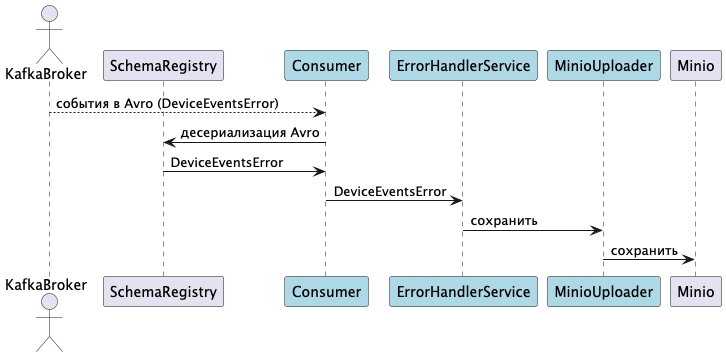
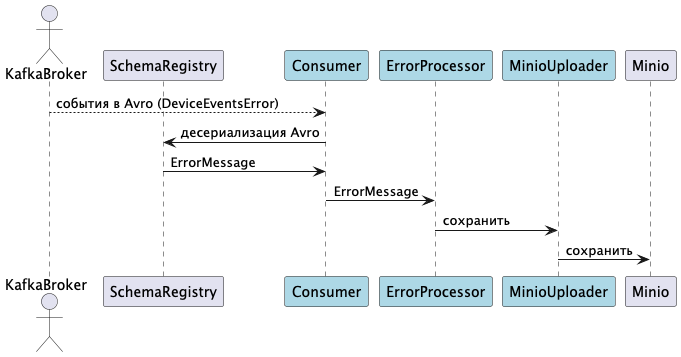
refactoring

diff --git a/failed-events-processor/src/main/java/ts/andrey/failedeventsprocessor/service/impl/EventsErrorProcessor.java b/failed-events-processor/src/main/java/ts/andrey/failedeventsprocessor/service/impl/EventsErrorProcessor.java
@@ -1,6 +1,5 @@
-package ts.andrey.failedeventsprocessor.service;
+package ts.andrey.failedeventsprocessor.service.impl;
 
-import com.nashkod.avro.DeviceError;
 import com.nashkod.avro.DeviceEventError;
 import lombok.RequiredArgsConstructor;
 import lombok.extern.slf4j.Slf4j;
@@ -8,13 +7,15 @@ import org.springframework.beans.factory.annotation.Value;
 import org.springframework.stereotype.Service;
 import ts.andrey.failedeventsprocessor.metrics.ErrorType;
 import ts.andrey.failedeventsprocessor.metrics.GlobalMetrics;
+import ts.andrey.failedeventsprocessor.service.ErrorProcessor;
+import ts.andrey.failedeventsprocessor.service.MinioUploader;
 import ts.andrey.failedeventsprocessor.utils.JsonAvroConverter;
 import ts.andrey.failedeventsprocessor.utils.MinioNameGenerator;
 
 @Slf4j
 @Service
 @RequiredArgsConstructor
-public class ErrorHandlerService {
+public class EventsErrorProcessor implements ErrorProcessor<DeviceEventError> {
 
     private final MinioUploader minioUploader;
 
@@ -22,15 +23,6 @@ public class ErrorHandlerService {
 
     @Value("${minio.bucket-name}")
     private String bucketName;
-
-    public void start(DeviceError deviceError) {
-        log.debug("Starting error handler service for {}", deviceError);
-        final var name = MinioNameGenerator.generateName(deviceError.getReceivedAt(),
-                deviceError.getErrorMeta().getErrorSource().name());
-        final var bytes = JsonAvroConverter.toJsonAvro(deviceError);
-        minioUploader.uploadToMinio(name, bytes, bucketName);
-        metrics.recordProcessed(ErrorType.DEVICE_ERROR);
-    }
 
     public void start(DeviceEventError deviceEventError) {
         log.debug("Starting error handler service for {}", deviceEventError);

diff --git a/failed-events-processor/src/main/java/ts/andrey/failedeventsprocessor/service/impl/DeviceErrorProcessor.java b/failed-events-processor/src/main/java/ts/andrey/failedeventsprocessor/service/impl/DeviceErrorProcessor.java
@@ -1,0 +1,36 @@
+package ts.andrey.failedeventsprocessor.service.impl;
+
+import com.nashkod.avro.DeviceError;
+import lombok.RequiredArgsConstructor;
+import lombok.extern.slf4j.Slf4j;
+import org.springframework.beans.factory.annotation.Value;
+import org.springframework.stereotype.Service;
+import ts.andrey.failedeventsprocessor.metrics.ErrorType;
+import ts.andrey.failedeventsprocessor.metrics.GlobalMetrics;
+import ts.andrey.failedeventsprocessor.service.ErrorProcessor;
+import ts.andrey.failedeventsprocessor.service.MinioUploader;
+import ts.andrey.failedeventsprocessor.utils.JsonAvroConverter;
+import ts.andrey.failedeventsprocessor.utils.MinioNameGenerator;
+
+@Slf4j
+@Service
+@RequiredArgsConstructor
+public class DeviceErrorProcessor implements ErrorProcessor<DeviceError> {
+
+    private final MinioUploader minioUploader;
+
+    private final GlobalMetrics metrics;
+
+    @Value("${minio.bucket-name}")
+    private String bucketName;
+
+    public void start(DeviceError deviceError) {
+        log.debug("Starting error handler service for {}", deviceError);
+        final var name = MinioNameGenerator.generateName(deviceError.getReceivedAt(),
+                deviceError.getErrorMeta().getErrorSource().name());
+        final var bytes = JsonAvroConverter.toJsonAvro(deviceError);
+        minioUploader.uploadToMinio(name, bytes, bucketName);
+        metrics.recordProcessed(ErrorType.DEVICE_ERROR);
+    }
+
+}

diff --git a/failed-events-processor/src/main/java/ts/andrey/failedeventsprocessor/service/kafka/EventsErrorConsumer.java b/failed-events-processor/src/main/java/ts/andrey/failedeventsprocessor/service/kafka/EventsErrorConsumer.java
@@ -1,4 +1,4 @@
-package ts.andrey.failedeventsprocessor.service;
+package ts.andrey.failedeventsprocessor.service.kafka;
 
 import com.nashkod.avro.DeviceEventError;
 import lombok.RequiredArgsConstructor;
@@ -6,15 +6,16 @@ import lombok.extern.slf4j.Slf4j;
 import org.apache.kafka.clients.consumer.ConsumerRecords;
 import org.springframework.kafka.annotation.KafkaListener;
 import org.springframework.stereotype.Component;
+import ts.andrey.failedeventsprocessor.service.ErrorProcessor;
 
 import java.util.ArrayList;
 
 @Slf4j
 @Component
 @RequiredArgsConstructor
-public class KafkaDeviceEventsErrorConsumer {
+public class EventsErrorConsumer {
 
-    private final ErrorHandlerService errorHandlerService;
+    private final ErrorProcessor<DeviceEventError> errorProcessor;
 
     @KafkaListener(
             topics = "${spring.kafka.template.dlt-events-topic}",
@@ -26,7 +27,7 @@ public class KafkaDeviceEventsErrorConsumer {
         records.forEach(message -> eventsErrors.add(message.value()));
         log.info("Получена пачка из [{}] ошибок по Events", eventsErrors.size());
         log.debug("Получены ошибки по Events: [{}]", eventsErrors);
-        eventsErrors.forEach(errorHandlerService::start);
+        eventsErrors.forEach(errorProcessor::start);
     }
 
 }

diff --git a/failed-events-processor/src/main/java/ts/andrey/failedeventsprocessor/service/kafka/DeviceErrorConsumer.java b/failed-events-processor/src/main/java/ts/andrey/failedeventsprocessor/service/kafka/DeviceErrorConsumer.java
@@ -1,4 +1,4 @@
-package ts.andrey.failedeventsprocessor.service;
+package ts.andrey.failedeventsprocessor.service.kafka;
 
 import com.nashkod.avro.DeviceError;
 import lombok.RequiredArgsConstructor;
@@ -6,15 +6,16 @@ import lombok.extern.slf4j.Slf4j;
 import org.apache.kafka.clients.consumer.ConsumerRecords;
 import org.springframework.kafka.annotation.KafkaListener;
 import org.springframework.stereotype.Component;
+import ts.andrey.failedeventsprocessor.service.ErrorProcessor;
 
 import java.util.ArrayList;
 
 @Slf4j
 @Component
 @RequiredArgsConstructor
-public class KafkaDeviceErrorConsumer {
+public class DeviceErrorConsumer {
 
-    private final ErrorHandlerService errorHandlerService;
+    private final ErrorProcessor<DeviceError> errorProcessor;
 
     @KafkaListener(
             topics = "${spring.kafka.template.dlt-device-topic}",
@@ -26,7 +27,7 @@ public class KafkaDeviceErrorConsumer {
         records.forEach(message -> deviceErrors.add(message.value()));
         log.info("Получена пачка из [{}] ошибок по Device", deviceErrors.size());
         log.debug("Получены ошибки по Device: [{}]", deviceErrors);
-        deviceErrors.forEach(errorHandlerService::start);
+        deviceErrors.forEach(errorProcessor::start);
     }
 
 }

diff --git a/failed-events-processor/src/main/java/ts/andrey/failedeventsprocessor/service/MinioUploader.java b/failed-events-processor/src/main/java/ts/andrey/failedeventsprocessor/service/MinioUploader.java
@@ -49,7 +49,7 @@ public class MinioUploader {
                         .contentType(CONTENT_TYPE)
                         .build()
             );
-            log.info("Uploaded file: " + fileName);
+            log.info("Uploaded file: {}", fileName);
         } catch (ServerException
                  | InsufficientDataException | ErrorResponseException | IOException
                  | NoSuchAlgorithmException | InvalidKeyException | InvalidResponseException

diff --git a/failed-events-processor/src/main/java/ts/andrey/failedeventsprocessor/service/ErrorProcessor.java b/failed-events-processor/src/main/java/ts/andrey/failedeventsprocessor/service/ErrorProcessor.java
@@ -1,0 +1,9 @@
+package ts.andrey.failedeventsprocessor.service;
+
+import org.apache.avro.specific.SpecificRecordBase;
+
+public interface ErrorProcessor<T extends SpecificRecordBase> {
+
+    void start(T errorMessage);
+
+}
